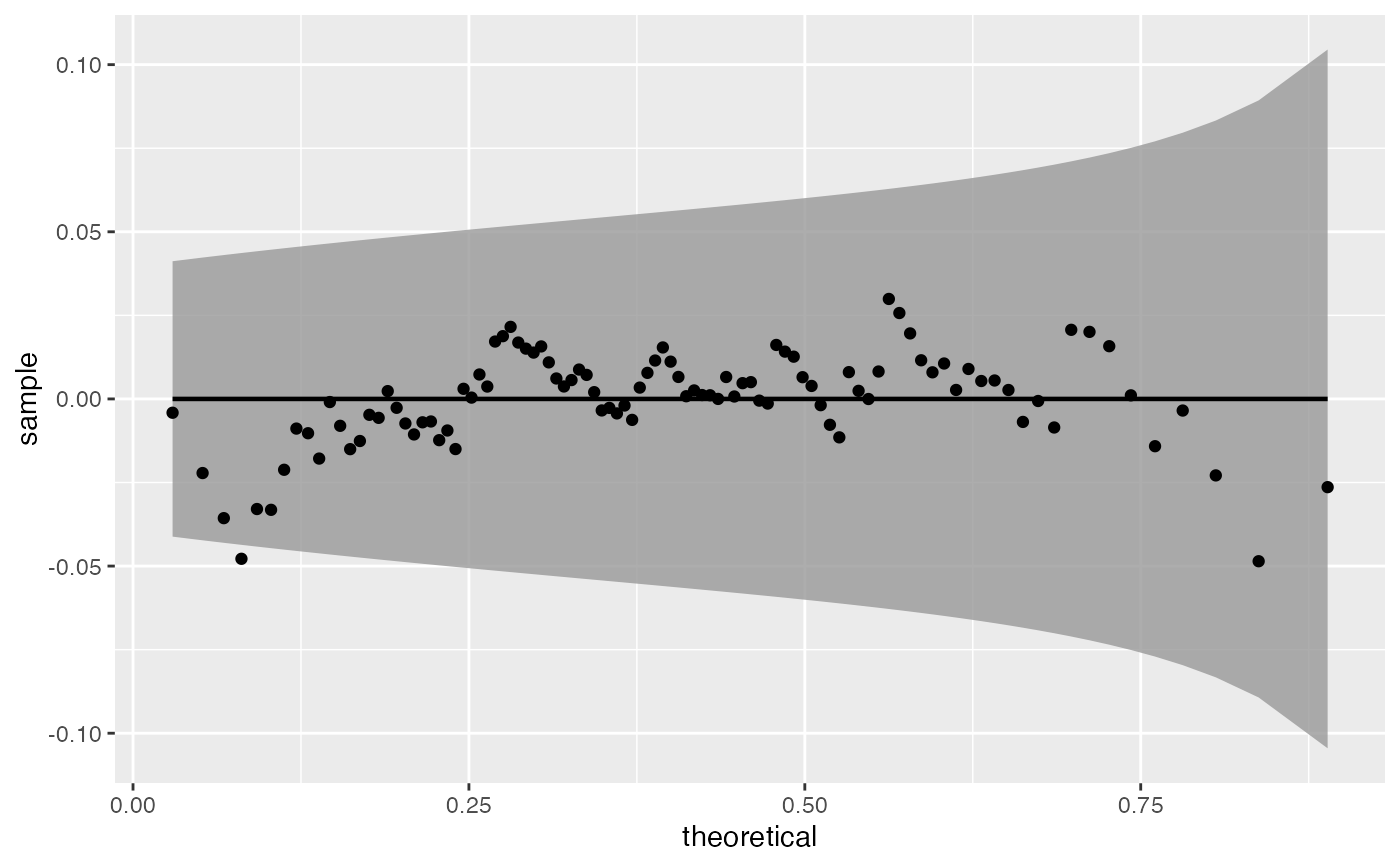
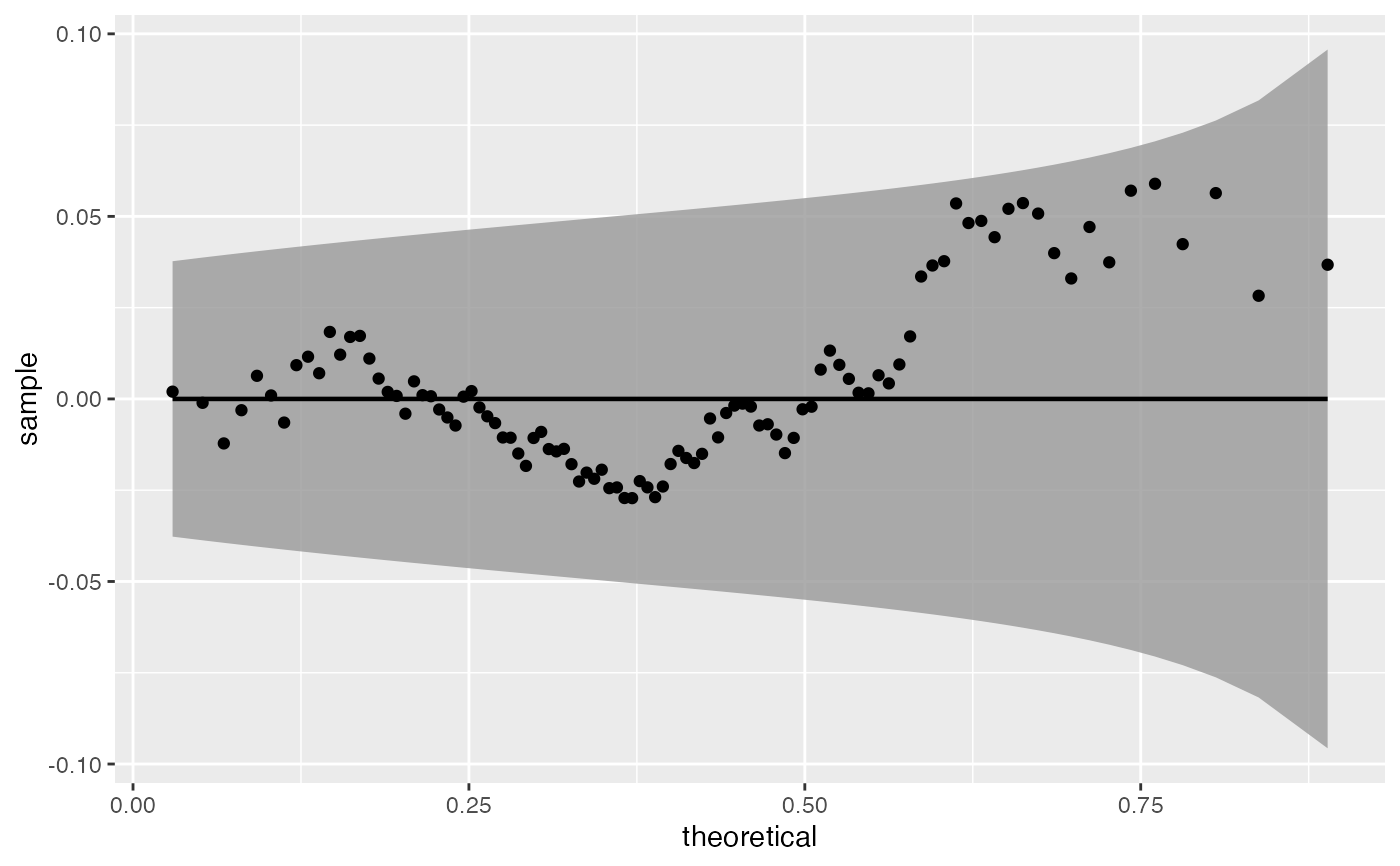
Built site for MSBMisc@0.0.1.15: e4b4996

diff --git a/reference/fa_reliability.html b/reference/fa_reliability.html
@@ -86,10 +86,10 @@
 <span class="r-in"><span></span></span>
 <span class="r-in"><span><span class="fu">fa_reliability</span><span class="op">(</span><span class="va">EFA</span><span class="op">)</span></span></span>
 <span class="r-out co"><span class="r-pr">#&gt;</span>   Factor     Omega</span>
-<span class="r-out co"><span class="r-pr">#&gt;</span> 1    MR1 0.3277063</span>
-<span class="r-out co"><span class="r-pr">#&gt;</span> 2    MR3 0.3644803</span>
-<span class="r-out co"><span class="r-pr">#&gt;</span> 3    MR4 0.6165837</span>
-<span class="r-out co"><span class="r-pr">#&gt;</span> 4    MR2 0.3654178</span>
+<span class="r-out co"><span class="r-pr">#&gt;</span> 1    MR3 0.3277087</span>
+<span class="r-out co"><span class="r-pr">#&gt;</span> 2    MR2 0.3644751</span>
+<span class="r-out co"><span class="r-pr">#&gt;</span> 3    MR1 0.6165841</span>
+<span class="r-out co"><span class="r-pr">#&gt;</span> 4    MR4 0.3654222</span>
 <span class="r-in"><span><span class="va">HS.model</span> <span class="op">&lt;-</span> <span class="st">" visual  =~ x1 + x2 + x3</span></span></span>
 <span class="r-in"><span><span class="st">              textual =~ x4 + x5 + x6</span></span></span>
 <span class="r-in"><span><span class="st">              speed   =~ x7 + x8 + x9 "</span></span></span>
@@ -97,7 +97,11 @@
 <span class="r-in"><span><span class="va">CFA</span> <span class="op">&lt;-</span> <span class="fu">lavaan</span><span class="fu">::</span><span class="fu"><a href="https://rdrr.io/pkg/lavaan/man/cfa.html" class="external-link">cfa</a></span><span class="op">(</span><span class="va">HS.model</span>, data <span class="op">=</span> <span class="fu">lavaan</span><span class="fu">::</span><span class="va"><a href="https://rdrr.io/pkg/lavaan/man/HolzingerSwineford1939.html" class="external-link">HolzingerSwineford1939</a></span><span class="op">)</span></span></span>
 <span class="r-in"><span></span></span>
 <span class="r-in"><span><span class="fu">fa_reliability</span><span class="op">(</span><span class="va">CFA</span><span class="op">)</span></span></span>
-<span class="r-err co"><span class="r-pr">#&gt;</span> <span class="error">Error in data.frame(Factor, Omega = as.vector(Omega)):</span> arguments imply differing number of rows: 3, 1</span>
+<span class="r-msg co"><span class="r-pr">#&gt;</span> Argument return.df= is deprecated, replaced by simplify= argument.</span>
+<span class="r-out co"><span class="r-pr">#&gt;</span>    Factor     Omega</span>
+<span class="r-out co"><span class="r-pr">#&gt;</span> 1  visual 0.6120052</span>
+<span class="r-out co"><span class="r-pr">#&gt;</span> 2 textual 0.8850608</span>
+<span class="r-out co"><span class="r-pr">#&gt;</span> 3   speed 0.6858417</span>
 </code></pre></div>
     </div>
   </main><aside class="col-md-3"><nav id="toc" aria-label="Table of contents"><h2>On this page</h2>

diff --git a/reference/lnorm_mean.html b/reference/lnorm_mean.html
@@ -75,19 +75,19 @@ values on the response scale.</p>
 <span class="r-in"><span><span class="va">sdlog</span> <span class="op">&lt;-</span> <span class="fu"><a href="https://rdrr.io/r/stats/sigma.html" class="external-link">sigma</a></span><span class="op">(</span><span class="va">m</span><span class="op">)</span></span></span>
 <span class="r-in"><span></span></span>
 <span class="r-in"><span><span class="fu">lnorm_mean</span><span class="op">(</span><span class="va">meanlog</span>, <span class="va">sdlog</span><span class="op">)</span></span></span>
-<span class="r-out co"><span class="r-pr">#&gt;</span> [1] 9.016069</span>
+<span class="r-out co"><span class="r-pr">#&gt;</span> [1] 8.965027</span>
 <span class="r-in"><span><span class="fu"><a href="https://rdrr.io/r/base/mean.html" class="external-link">mean</a></span><span class="op">(</span><span class="va">x</span><span class="op">)</span></span></span>
-<span class="r-out co"><span class="r-pr">#&gt;</span> [1] 9.000316</span>
+<span class="r-out co"><span class="r-pr">#&gt;</span> [1] 9.049275</span>
 <span class="r-in"><span></span></span>
 <span class="r-in"><span><span class="fu">lnorm_median</span><span class="op">(</span><span class="va">meanlog</span>, <span class="va">sdlog</span><span class="op">)</span></span></span>
-<span class="r-out co"><span class="r-pr">#&gt;</span> [1] 4.459222</span>
+<span class="r-out co"><span class="r-pr">#&gt;</span> [1] 4.405787</span>
 <span class="r-in"><span><span class="fu"><a href="https://rdrr.io/r/stats/median.html" class="external-link">median</a></span><span class="op">(</span><span class="va">x</span><span class="op">)</span></span></span>
-<span class="r-out co"><span class="r-pr">#&gt;</span> [1] 4.433352</span>
+<span class="r-out co"><span class="r-pr">#&gt;</span> [1] 4.3756</span>
 <span class="r-in"><span></span></span>
 <span class="r-in"><span><span class="fu">lnorm_sd</span><span class="op">(</span><span class="va">meanlog</span>, <span class="va">sdlog</span><span class="op">)</span></span></span>
-<span class="r-out co"><span class="r-pr">#&gt;</span> [1] 15.8438</span>
+<span class="r-out co"><span class="r-pr">#&gt;</span> [1] 15.88742</span>
 <span class="r-in"><span><span class="fu"><a href="https://rdrr.io/r/stats/sd.html" class="external-link">sd</a></span><span class="op">(</span><span class="va">x</span><span class="op">)</span></span></span>
-<span class="r-out co"><span class="r-pr">#&gt;</span> [1] 15.30699</span>
+<span class="r-out co"><span class="r-pr">#&gt;</span> [1] 18.52951</span>
 <span class="r-in"><span></span></span>
 </code></pre></div>
     </div>

diff --git a/reference/index.html b/reference/index.html
@@ -99,13 +99,6 @@
 
         <dt>
 
-          <code><a href="crop_coord_polar.html">crop_coord_polar()</a></code>
-
-        </dt>
-        <dd>Crop <code>coord_polar</code></dd>
-
-        <dt>
-
           <code><a href="dbind.html">dbind()</a></code>
 
         </dt>
@@ -211,7 +204,7 @@
 
         <dt>
 
-          <code><a href="r2_pseudo.html">r2_pseudo()</a></code>
+          <code><a href="r2_pseudo.html">r2_pseudo()</a></code> <code><a href="r2_pseudo.html">V_table()</a></code>
 
         </dt>
         <dd>Compute pseudo R-square for mixed models</dd>

diff --git a/reference/r2_pseudo.html b/reference/r2_pseudo.html
@@ -45,7 +45,9 @@ model.</p>
 
     <div class="section level2">
     <h2 id="ref-usage">Usage<a class="anchor" aria-label="anchor" href="#ref-usage"></a></h2>
-    <div class="sourceCode"><pre class="sourceCode r"><code><span><span class="fu">r2_pseudo</span><span class="op">(</span><span class="va">mf</span>, <span class="va">mr</span>, mnull <span class="op">=</span> <span class="va">mr</span><span class="op">)</span></span></code></pre></div>
+    <div class="sourceCode"><pre class="sourceCode r"><code><span><span class="fu">r2_pseudo</span><span class="op">(</span><span class="va">mf</span>, <span class="va">mr</span>, mnull <span class="op">=</span> <span class="va">mr</span><span class="op">)</span></span>
+<span></span>
+<span><span class="fu">V_table</span><span class="op">(</span><span class="va">model</span><span class="op">)</span></span></code></pre></div>
     </div>
 
     <div class="section level2">
@@ -63,6 +65,10 @@ model.</p>
 <dt id="arg-mnull">mnull<a class="anchor" aria-label="anchor" href="#arg-mnull"></a></dt>
 <dd><p>The empty model, where some variance of interest is unmodeled
 (an "unconditional" model)</p></dd>
+
+
+<dt id="arg-model">model<a class="anchor" aria-label="anchor" href="#arg-model"></a></dt>
+<dd><p>A fitted model object</p></dd>
 
 </dl></div>
     <div class="section level2">

diff --git a/reference/get_data_for_grid.html b/reference/get_data_for_grid.html
@@ -152,6 +152,11 @@ name of grouping variable is automatically detected from the model.</p></dd>
 <span class="r-out co"><span class="r-pr">#&gt;</span> Merc 280            6 100      22.09131</span>
 <span class="r-in"><span></span></span>
 <span class="r-in"><span><span class="kw"><a href="https://rdrr.io/r/base/library.html" class="external-link">library</a></span><span class="op">(</span><span class="va"><a href="https://ggplot2.tidyverse.org" class="external-link">ggplot2</a></span><span class="op">)</span></span></span>
+<span class="r-msg co"><span class="r-pr">#&gt;</span> </span>
+<span class="r-msg co"><span class="r-pr">#&gt;</span> Attaching package: ‘ggplot2’</span>
+<span class="r-msg co"><span class="r-pr">#&gt;</span> The following objects are masked from ‘package:psych’:</span>
+<span class="r-msg co"><span class="r-pr">#&gt;</span> </span>
+<span class="r-msg co"><span class="r-pr">#&gt;</span>     %+%, alpha</span>
 <span class="r-in"><span><span class="fu"><a href="https://ggplot2.tidyverse.org/reference/ggplot.html" class="external-link">ggplot</a></span><span class="op">(</span><span class="va">nd</span>, <span class="fu"><a href="https://ggplot2.tidyverse.org/reference/aes.html" class="external-link">aes</a></span><span class="op">(</span><span class="va">hp</span>, <span class="va">predicted_mpg</span><span class="op">)</span><span class="op">)</span> <span class="op">+</span></span></span>
 <span class="r-in"><span>  <span class="fu"><a href="https://ggplot2.tidyverse.org/reference/geom_path.html" class="external-link">geom_line</a></span><span class="op">(</span><span class="op">)</span> <span class="op">+</span></span></span>
 <span class="r-in"><span>  <span class="fu"><a href="https://ggplot2.tidyverse.org/reference/geom_point.html" class="external-link">geom_point</a></span><span class="op">(</span><span class="fu"><a href="https://ggplot2.tidyverse.org/reference/aes.html" class="external-link">aes</a></span><span class="op">(</span>y <span class="op">=</span> <span class="va">mpg</span>, color <span class="op">=</span> <span class="st">"Raw"</span><span class="op">)</span>,</span></span>

diff --git a/reference/jaccard_avg.html b/reference/jaccard_avg.html
@@ -102,8 +102,7 @@ model fitted on the same data (Hennig, 2007).</p>
 
     <div class="section level2">
     <h2 id="ref-examples">Examples<a class="anchor" aria-label="anchor" href="#ref-examples"></a></h2>
-    <div class="sourceCode"><pre class="sourceCode r"><code><span class="r-in"><span><span class="kw">if</span> <span class="op">(</span><span class="cn">FALSE</span><span class="op">)</span> <span class="op">{</span> <span class="co"># require("tidymodels") &amp;&amp; require("tidyclust")</span></span></span>
-<span class="r-in"><span></span></span>
+    <div class="sourceCode"><pre class="sourceCode r"><code><span class="r-in"><span></span></span>
 <span class="r-in"><span><span class="kw"><a href="https://rdrr.io/r/base/library.html" class="external-link">library</a></span><span class="op">(</span><span class="va"><a href="https://tidymodels.tidymodels.org" class="external-link">tidymodels</a></span><span class="op">)</span></span></span>
 <span class="r-in"><span><span class="kw"><a href="https://rdrr.io/r/base/library.html" class="external-link">library</a></span><span class="op">(</span><span class="va"><a href="https://github.com/tidymodels/tidyclust" class="external-link">tidyclust</a></span><span class="op">)</span></span></span>
 <span class="r-in"><span></span></span>
@@ -121,7 +120,7 @@ model fitted on the same data (Hennig, 2007).</p>
 <span class="r-in"><span><span class="co"># What's the largest k that has high recovery rate?</span></span></span>
 <span class="r-in"><span><span class="co"># (values above 0.75 are considered good, values below 0.5 are considered bad)</span></span></span>
 <span class="r-in"><span><span class="fu"><a href="https://ggplot2.tidyverse.org/reference/autoplot.html" class="external-link">autoplot</a></span><span class="op">(</span><span class="va">res</span><span class="op">)</span></span></span>
-<span class="r-in"><span><span class="op">}</span></span></span>
+<span class="r-plt img"><img src="jaccard_avg-1.png" alt="" width="700" height="433"></span>
 </code></pre></div>
     </div>
   </main><aside class="col-md-3"><nav id="toc" aria-label="Table of contents"><h2>On this page</h2>

diff --git a/reference/pred_strength.html b/reference/pred_strength.html
@@ -101,8 +101,7 @@ Prediction Strength, <em>Journal of Computational and Graphical Statistics, 14</
 
     <div class="section level2">
     <h2 id="ref-examples">Examples<a class="anchor" aria-label="anchor" href="#ref-examples"></a></h2>
-    <div class="sourceCode"><pre class="sourceCode r"><code><span class="r-in"><span><span class="kw">if</span> <span class="op">(</span><span class="cn">FALSE</span><span class="op">)</span> <span class="op">{</span> <span class="co"># require("tidymodels") &amp;&amp; require("tidyclust")</span></span></span>
-<span class="r-in"><span></span></span>
+    <div class="sourceCode"><pre class="sourceCode r"><code><span class="r-in"><span></span></span>
 <span class="r-in"><span><span class="kw"><a href="https://rdrr.io/r/base/library.html" class="external-link">library</a></span><span class="op">(</span><span class="va"><a href="https://tidymodels.tidymodels.org" class="external-link">tidymodels</a></span><span class="op">)</span></span></span>
 <span class="r-in"><span><span class="kw"><a href="https://rdrr.io/r/base/library.html" class="external-link">library</a></span><span class="op">(</span><span class="va"><a href="https://github.com/tidymodels/tidyclust" class="external-link">tidyclust</a></span><span class="op">)</span></span></span>
 <span class="r-in"><span></span></span>
@@ -120,7 +119,7 @@ Prediction Strength, <em>Journal of Computational and Graphical Statistics, 14</
 <span class="r-in"><span><span class="co"># What's the largest k that has a good prediction strength?</span></span></span>
 <span class="r-in"><span><span class="co"># (values above 0.8 are considered good)</span></span></span>
 <span class="r-in"><span><span class="fu"><a href="https://ggplot2.tidyverse.org/reference/autoplot.html" class="external-link">autoplot</a></span><span class="op">(</span><span class="va">res</span><span class="op">)</span></span></span>
-<span class="r-in"><span><span class="op">}</span></span></span>
+<span class="r-plt img"><img src="pred_strength-1.png" alt="" width="700" height="433"></span>
 </code></pre></div>
     </div>
   </main><aside class="col-md-3"><nav id="toc" aria-label="Table of contents"><h2>On this page</h2>

diff --git a/reference/age_in_unit.html b/reference/age_in_unit.html
@@ -67,7 +67,7 @@
     <div class="sourceCode"><pre class="sourceCode r"><code><span class="r-in"><span><span class="va">DOB</span> <span class="op">&lt;-</span> <span class="fu"><a href="https://rdrr.io/r/base/as.Date.html" class="external-link">as.Date</a></span><span class="op">(</span><span class="st">"1989-08-05"</span><span class="op">)</span></span></span>
 <span class="r-in"><span><span class="va">TODAY</span> <span class="op">&lt;-</span> <span class="fu"><a href="https://rdrr.io/r/base/Sys.time.html" class="external-link">Sys.Date</a></span><span class="op">(</span><span class="op">)</span></span></span>
 <span class="r-in"><span><span class="fu">age_in_unit</span><span class="op">(</span><span class="va">DOB</span>, <span class="va">TODAY</span><span class="op">)</span></span></span>
-<span class="r-out co"><span class="r-pr">#&gt;</span> [1] "36 years, 10 months, 2 weeks, 3 days"</span>
+<span class="r-out co"><span class="r-pr">#&gt;</span> [1] "36 years, 10 months, 2 weeks, 4 days"</span>
 </code></pre></div>
     </div>
   </main><aside class="col-md-3"><nav id="toc" aria-label="Table of contents"><h2>On this page</h2>

diff --git a/reference/fa_reliability.md b/reference/fa_reliability.md
@@ -52,10 +52,10 @@ EFA <- psych::fa(Harman74.cor$cov, 4)
 
 fa_reliability(EFA)
 #>   Factor     Omega
-#> 1    MR1 0.3277063
-#> 2    MR3 0.3644803
-#> 3    MR4 0.6165837
-#> 4    MR2 0.3654178
+#> 1    MR3 0.3277087
+#> 2    MR2 0.3644751
+#> 3    MR1 0.6165841
+#> 4    MR4 0.3654222
 HS.model <- " visual  =~ x1 + x2 + x3
               textual =~ x4 + x5 + x6
               speed   =~ x7 + x8 + x9 "
@@ -63,5 +63,9 @@ HS.model <- " visual  =~ x1 + x2 + x3
 CFA <- lavaan::cfa(HS.model, data = lavaan::HolzingerSwineford1939)
 
 fa_reliability(CFA)
-#> Error in data.frame(Factor, Omega = as.vector(Omega)): arguments imply differing number of rows: 3, 1
+#> Argument return.df= is deprecated, replaced by simplify= argument.
+#>    Factor     Omega
+#> 1  visual 0.6120052
+#> 2 textual 0.8850608
+#> 3   speed 0.6858417
 ```

diff --git a/reference/lnorm_mean.md b/reference/lnorm_mean.md
@@ -37,17 +37,17 @@ meanlog <- coef(m)
 sdlog <- sigma(m)
 
 lnorm_mean(meanlog, sdlog)
-#> [1] 9.016069
+#> [1] 8.965027
 mean(x)
-#> [1] 9.000316
+#> [1] 9.049275
 
 lnorm_median(meanlog, sdlog)
-#> [1] 4.459222
+#> [1] 4.405787
 median(x)
-#> [1] 4.433352
+#> [1] 4.3756
 
 lnorm_sd(meanlog, sdlog)
-#> [1] 15.8438
+#> [1] 15.88742
 sd(x)
-#> [1] 15.30699
+#> [1] 18.52951
 ```

diff --git a/reference/index.md b/reference/index.md
@@ -25,10 +25,6 @@
 - [`contrast_weights()`](contrast_weights.md)
   [`cw()`](contrast_weights.md) : Build Contrast Weights
 
-- [`crop_coord_polar()`](crop_coord_polar.md) :
-
-  Crop `coord_polar`
-
 - [`dbind()`](dbind.md) : Bind matrices diagonally
 
 - [`delta_method()`](delta_method.md) :
@@ -85,8 +81,8 @@
 
 - [`qq_worm_plot()`](qq_worm_plot.md) : Create a worm plot
 
-- [`r2_pseudo()`](r2_pseudo.md) : Compute pseudo R-square for mixed
-  models
+- [`r2_pseudo()`](r2_pseudo.md) [`V_table()`](r2_pseudo.md) : Compute
+  pseudo R-square for mixed models
 
 - [`r_SB()`](r_SB.md) : Spearman-Brown Split half reliability
 

diff --git a/reference/r2_pseudo.md b/reference/r2_pseudo.md
@@ -8,6 +8,8 @@ model and a reduced model.
 
 ``` r
 r2_pseudo(mf, mr, mnull = mr)
+
+V_table(model)
 ```
 
 ## Arguments
@@ -24,6 +26,10 @@ r2_pseudo(mf, mr, mnull = mr)
 
   The empty model, where some variance of interest is unmodeled (an
   "unconditional" model)
+
+- model:
+
+  A fitted model object
 
 ## Value
 